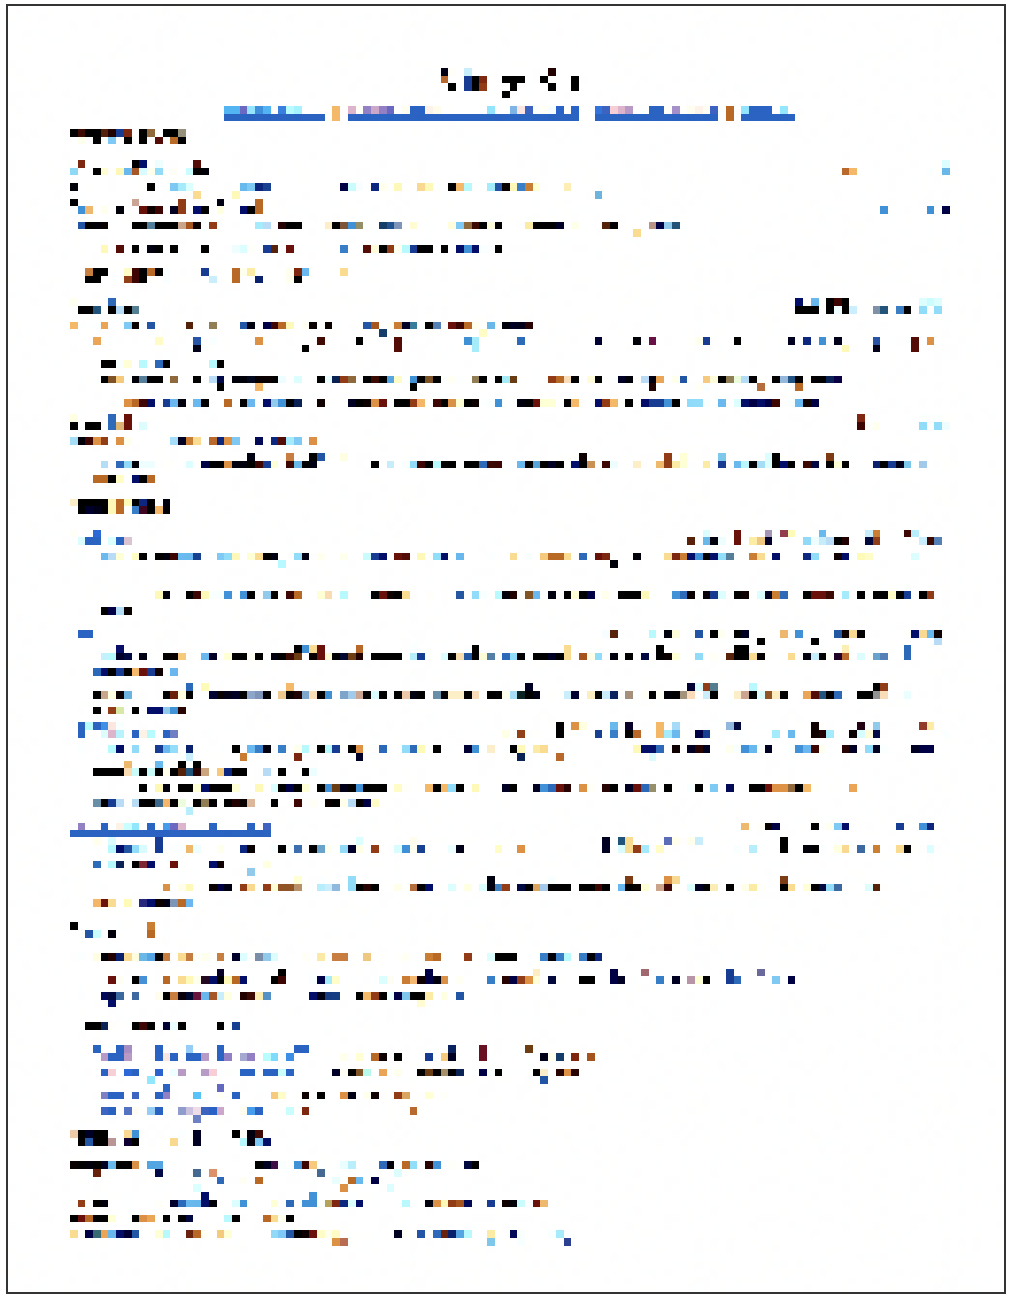
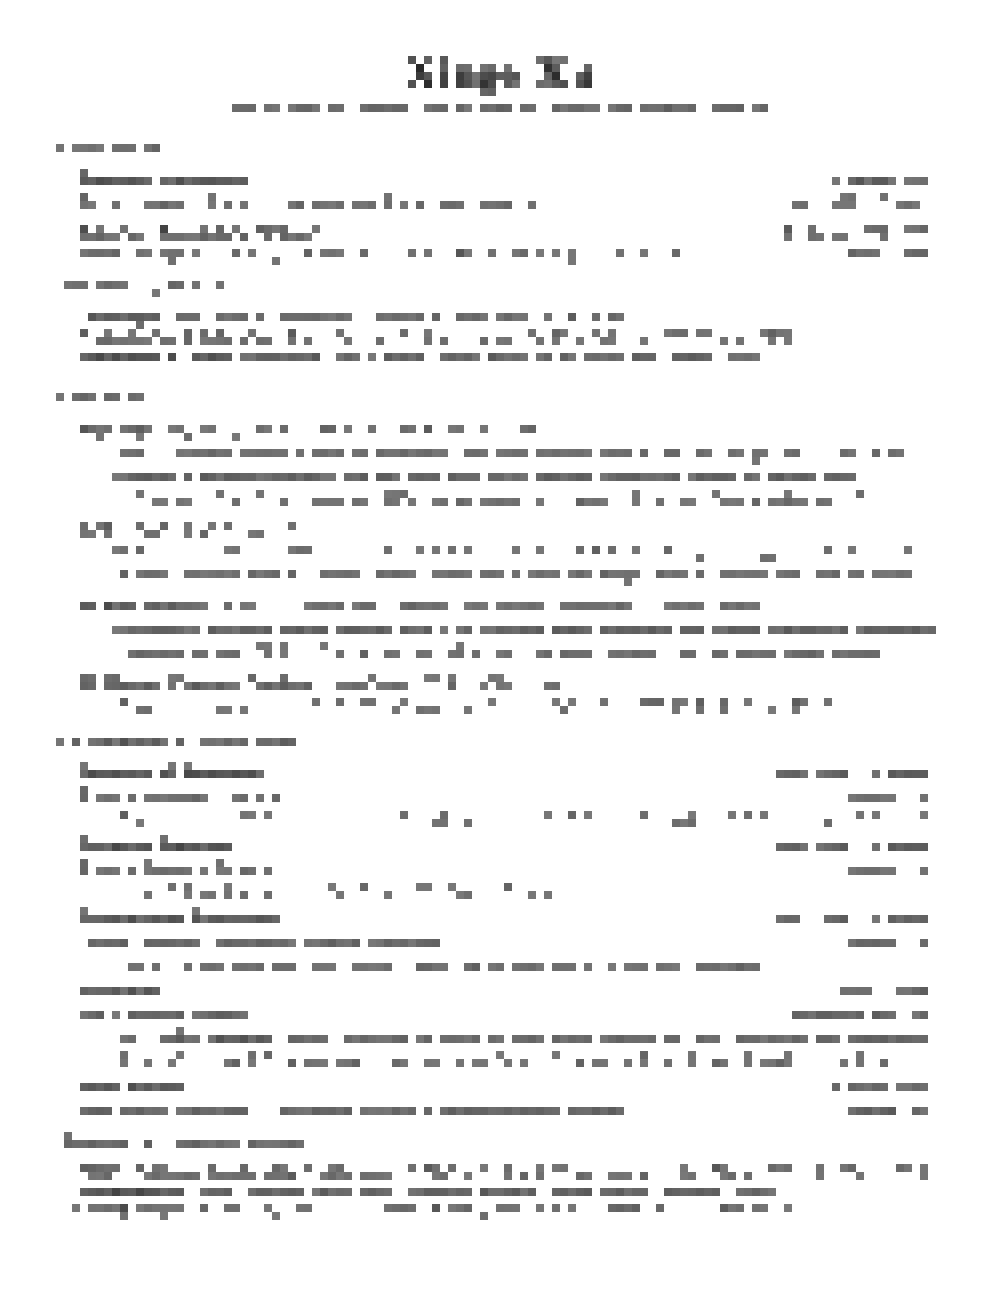
Restore pixel reveal on resume page
Regenerates the 16 reveal frames from the current resume PDF and brings
back the frame playback that develops the page from chunky pixels to
sharp before handing off to the embedded PDF. Drops the now-unused
confetti styles.

diff --git a/src/app/globals.css b/src/app/globals.css
@@ -49,12 +49,6 @@
   --confetti-2: #9fc4f0;
   --confetti-3: #e9eff8;
   --confetti-4: #6f8fbd;
-  --resume-confetti-1: #ffd24a;
-  --resume-confetti-2: #9fc4f0;
-  --resume-confetti-3: #e9eff8;
-  --resume-confetti-4: #6f8fbd;
-  --resume-confetti-5: #fff0a8;
-  --resume-confetti-glow: rgba(159, 196, 240, 0.72);
 }
 
 :root[data-theme="light"] {
@@ -97,12 +91,6 @@
   --confetti-2: #4d83b4;
   --confetti-3: #ffffff;
   --confetti-4: #ffd24a;
-  --resume-confetti-1: #d97706;
-  --resume-confetti-2: #1d5ca8;
-  --resume-confetti-3: #ffffff;
-  --resume-confetti-4: #7fa9d2;
-  --resume-confetti-5: #ffd24a;
-  --resume-confetti-glow: rgba(77, 131, 180, 0.62);
 }
 
 :root[data-sky-phase="twilight"] {
@@ -145,12 +133,6 @@
   --confetti-2: #fff0cf;
   --confetti-3: #ef7f7d;
   --confetti-4: #a878c2;
-  --resume-confetti-1: #6f3f7c;
-  --resume-confetti-2: #a878c2;
-  --resume-confetti-3: #ffd889;
-  --resume-confetti-4: #ef7f7d;
-  --resume-confetti-5: #fff0cf;
-  --resume-confetti-glow: rgba(255, 216, 137, 0.76);
 }
 
 * { margin: 0; padding: 0; box-sizing: border-box; }
@@ -1957,18 +1939,10 @@ a.project-card:hover .project-title { color: var(--accent); }
   width: 100%;
   height: 100%;
   overflow: hidden;
-  opacity: 0;
   border: 4px solid var(--border);
   background: #fff;
   box-shadow: 0 0 0 2px var(--shadow);
-  transition:
-    opacity 650ms ease-out,
-    transform 120ms steps(2),
-    box-shadow 120ms steps(2);
-}
-
-.resume-preview-shell.is-visible {
-  opacity: 1;
+  transition: transform 120ms steps(2), box-shadow 120ms steps(2);
 }
 
 .resume-preview-shell:hover {
@@ -1990,158 +1964,25 @@ a.project-card:hover .project-title { color: var(--accent); }
   pointer-events: none;
 }
 
-.resume-sparkles {
+.resume-animation-frames,
+.resume-animation-frame {
   position: absolute;
   inset: 0;
-  z-index: 4;
+  overflow: hidden;
   pointer-events: none;
 }
 
-.resume-sparkle {
-  position: absolute;
-  width: 7px;
-  height: 7px;
-  color: #fff;
-  background: currentColor;
-  box-shadow:
-    0 -14px 0 currentColor,
-    14px 0 0 currentColor,
-    0 14px 0 currentColor,
-    -14px 0 0 currentColor;
-  filter:
-    drop-shadow(0 0 4px currentColor)
-    drop-shadow(0 0 9px var(--resume-confetti-glow));
-  opacity: 0;
+.resume-animation-frame {
+  visibility: hidden;
+  background: #fff;
 }
 
-.resume-sparkles.is-visible .resume-sparkle {
-  animation: resume-sparkle-pop 1150ms steps(7, end) both;
+.resume-animation-frame.is-active {
+  visibility: visible;
 }
 
-.resume-sparkle:nth-child(3n) {
-  width: 11px;
-  height: 11px;
-  box-shadow:
-    0 -22px 0 currentColor,
-    22px 0 0 currentColor,
-    0 22px 0 currentColor,
-    -22px 0 0 currentColor;
-}
-
-.resume-sparkle:nth-child(4n) {
-  width: 5px;
-  height: 5px;
-  box-shadow:
-    0 -10px 0 currentColor,
-    10px 0 0 currentColor,
-    0 10px 0 currentColor,
-    -10px 0 0 currentColor;
-}
-
-@keyframes resume-sparkle-pop {
-  0% {
-    opacity: 0;
-    transform: translate(-50%, -50%) scale(0) rotate(0deg);
-  }
-  12% { opacity: 1; }
-  48% {
-    opacity: 1;
-    transform:
-      translate(
-        calc(-50% + var(--sparkle-x)),
-        calc(-50% + var(--sparkle-y))
-      )
-      scale(1.65)
-      rotate(45deg);
-  }
-  72% { opacity: 1; }
-  100% {
-    opacity: 0;
-    transform:
-      translate(
-        calc(-50% + var(--sparkle-x)),
-        calc(-50% + var(--sparkle-y) + var(--sparkle-drop))
-      )
-      scale(0.25)
-      rotate(135deg);
-  }
-}
-
-.resume-celebration {
-  position: absolute;
-  inset: -18px;
-  z-index: 40;
-  overflow: visible;
-  pointer-events: none;
-}
-
-.resume-falling-particle {
-  position: absolute;
-  opacity: 0;
-  box-shadow: 0 0 0 2px color-mix(in srgb, currentColor 28%, transparent);
-  filter:
-    drop-shadow(0 0 4px currentColor)
-    drop-shadow(0 0 9px var(--resume-confetti-glow));
-  image-rendering: pixelated;
-}
-
-.resume-falling-particle.is-star {
-  box-shadow:
-    0 -10px 0 currentColor,
-    10px 0 0 currentColor,
-    0 10px 0 currentColor,
-    -10px 0 0 currentColor,
-    0 0 0 2px color-mix(in srgb, currentColor 28%, transparent);
-}
-
-.resume-celebration.is-visible .resume-falling-particle {
-  animation-name: resume-particle-fall;
-  animation-timing-function: steps(18, end);
-  animation-fill-mode: both;
-}
-
-@keyframes resume-particle-fall {
-  0% {
-    opacity: 0;
-    transform: translate3d(0, 0, 0) scale(0.2) rotate(0deg);
-  }
-  9% { opacity: 1; }
-  22% {
-    opacity: 1;
-    transform:
-      translate3d(var(--particle-burst-x), var(--particle-burst-y), 0)
-      scale(1.45)
-      rotate(45deg);
-  }
-  52% {
-    opacity: 1;
-    transform:
-      translate3d(
-        calc(var(--particle-burst-x) + var(--particle-sway)),
-        17vh,
-        0
-      )
-      scale(1.1)
-      rotate(180deg);
-  }
-  76% {
-    opacity: 1;
-    transform:
-      translate3d(
-        calc(var(--particle-drift) - var(--particle-sway)),
-        58vh,
-        0
-      )
-      scale(0.9)
-      rotate(360deg);
-  }
-  100% {
-    opacity: 0;
-    transform:
-      translate3d(var(--particle-drift), 105vh, 0)
-      scale(0.75)
-      rotate(var(--particle-spin));
-  }
+.resume-animation-image {
+  object-fit: cover;
 }
 
 .resume-preview-hit-area {
@@ -2668,15 +2509,7 @@ a.project-card:hover .project-title { color: var(--accent); }
     transform: none;
   }
   .resume-preview-shell {
-    transition: opacity 650ms ease-out;
-  }
-  .resume-sparkle:nth-child(n + 33),
-  .resume-falling-particle:nth-child(n + 49) {
-    display: none;
-  }
-  .resume-sparkle,
-  .resume-falling-particle {
-    filter: drop-shadow(0 0 4px currentColor);
+    transition: none;
   }
   .resume-editor-page {
     height: auto;
@@ -2747,13 +2580,8 @@ a.project-card:hover .project-title { color: var(--accent); }
   .midnight-fullscreen-fireworks,
   .hero-banner-speed-particles,
   .hero-banner-plane-smoke,
-  .resume-sparkles,
-  .resume-celebration {
+  .resume-animation-frames {
     display: none;
-  }
-  .resume-preview-shell {
-    opacity: 1;
-    transition: none;
   }
 }
 

diff --git a/src/components/Resume.tsx b/src/components/Resume.tsx
@@ -1,18 +1,46 @@
 "use client";
 
+import Image from "next/image";
 import { TransitionLink as Link } from "@/components/PageTransitions";
-import { useEffect, useState } from "react";
+import { useEffect, useRef, useState } from "react";
+
+// Sixteen pre-rendered stills of the resume, from chunky pixels to sharp.
+// Played in order over a white page, they make the resume "develop" into
+// view before handing off to the real PDF underneath.
+const resumeFrames = Array.from(
+  { length: 16 },
+  (_, index) => `/resume/frames/frame-${String(index + 1).padStart(2, "0")}.png`,
+);
 
 export default function Resume() {
-  const [isVisible, setIsVisible] = useState(false);
+  const loadedFrames = useRef(new Set<number>());
+  // -1 means the reveal has finished and the frames are unmounted.
+  const [activeFrame, setActiveFrame] = useState(0);
+  const [loadedFrameVersion, setLoadedFrameVersion] = useState(0);
 
-  // The PDF's onLoad usually fires quickly, but just in case it's slow (or
-  // never fires for some reason), this guarantees the resume still fades
-  // in after a short wait instead of the page looking permanently unfinished.
+  // Step to the next frame only once the current one (and the one after it)
+  // has loaded, so a slow connection pauses the reveal instead of flashing
+  // blank frames.
   useEffect(() => {
-    const revealFallback = window.setTimeout(() => setIsVisible(true), 800);
-    return () => window.clearTimeout(revealFallback);
-  }, []);
+    if (activeFrame < 0 || !loadedFrames.current.has(activeFrame)) return;
+
+    const nextFrame = activeFrame + 1;
+    if (nextFrame < resumeFrames.length && !loadedFrames.current.has(nextFrame)) return;
+
+    const playbackTimer = window.setTimeout(() => {
+      setActiveFrame((currentFrame) =>
+        currentFrame + 1 >= resumeFrames.length ? -1 : currentFrame + 1,
+      );
+    }, 105);
+
+    return () => window.clearTimeout(playbackTimer);
+  }, [activeFrame, loadedFrameVersion]);
+
+  function handleFrameLoad(index: number) {
+    if (loadedFrames.current.has(index)) return;
+    loadedFrames.current.add(index);
+    setLoadedFrameVersion((version) => version + 1);
+  }
 
   return (
     <div className="resume-page">
@@ -30,14 +58,37 @@ export default function Resume() {
           {/* The <iframe> embeds the actual PDF; a full-shell <Link> sits on
               top so a click anywhere opens the dedicated full-screen viewer
               instead of fighting with the browser's built-in PDF controls. */}
-          <div className={`resume-preview-shell${isVisible ? " is-visible" : ""}`}>
+          <div className="resume-preview-shell">
             <iframe
               className="resume-preview"
               src="/resume/resume.pdf#toolbar=0&navpanes=0&scrollbar=0&view=FitH&pagemode=none"
               title="Xinge Xu's resume"
               tabIndex={-1}
-              onLoad={() => setIsVisible(true)}
             />
+            <div className="resume-animation-frames" aria-hidden="true">
+              {activeFrame >= 0
+                ? [activeFrame, activeFrame + 1]
+                    .filter((index) => index < resumeFrames.length)
+                    .map((index) => (
+                      <div
+                        className={`resume-animation-frame${index === activeFrame ? " is-active" : ""}`}
+                        key={resumeFrames[index]}
+                      >
+                        <Image
+                          className="resume-animation-image"
+                          src={resumeFrames[index]}
+                          alt=""
+                          fill
+                          sizes="(max-width: 820px) 88vw, 900px"
+                          loading="eager"
+                          fetchPriority={index === activeFrame && index < 4 ? "high" : "auto"}
+                          onLoad={() => handleFrameLoad(index)}
+                          onError={() => handleFrameLoad(index)}
+                        />
+                      </div>
+                    ))
+                : null}
+            </div>
             <Link
               href="/resume/editor"
               className="resume-preview-hit-area"
